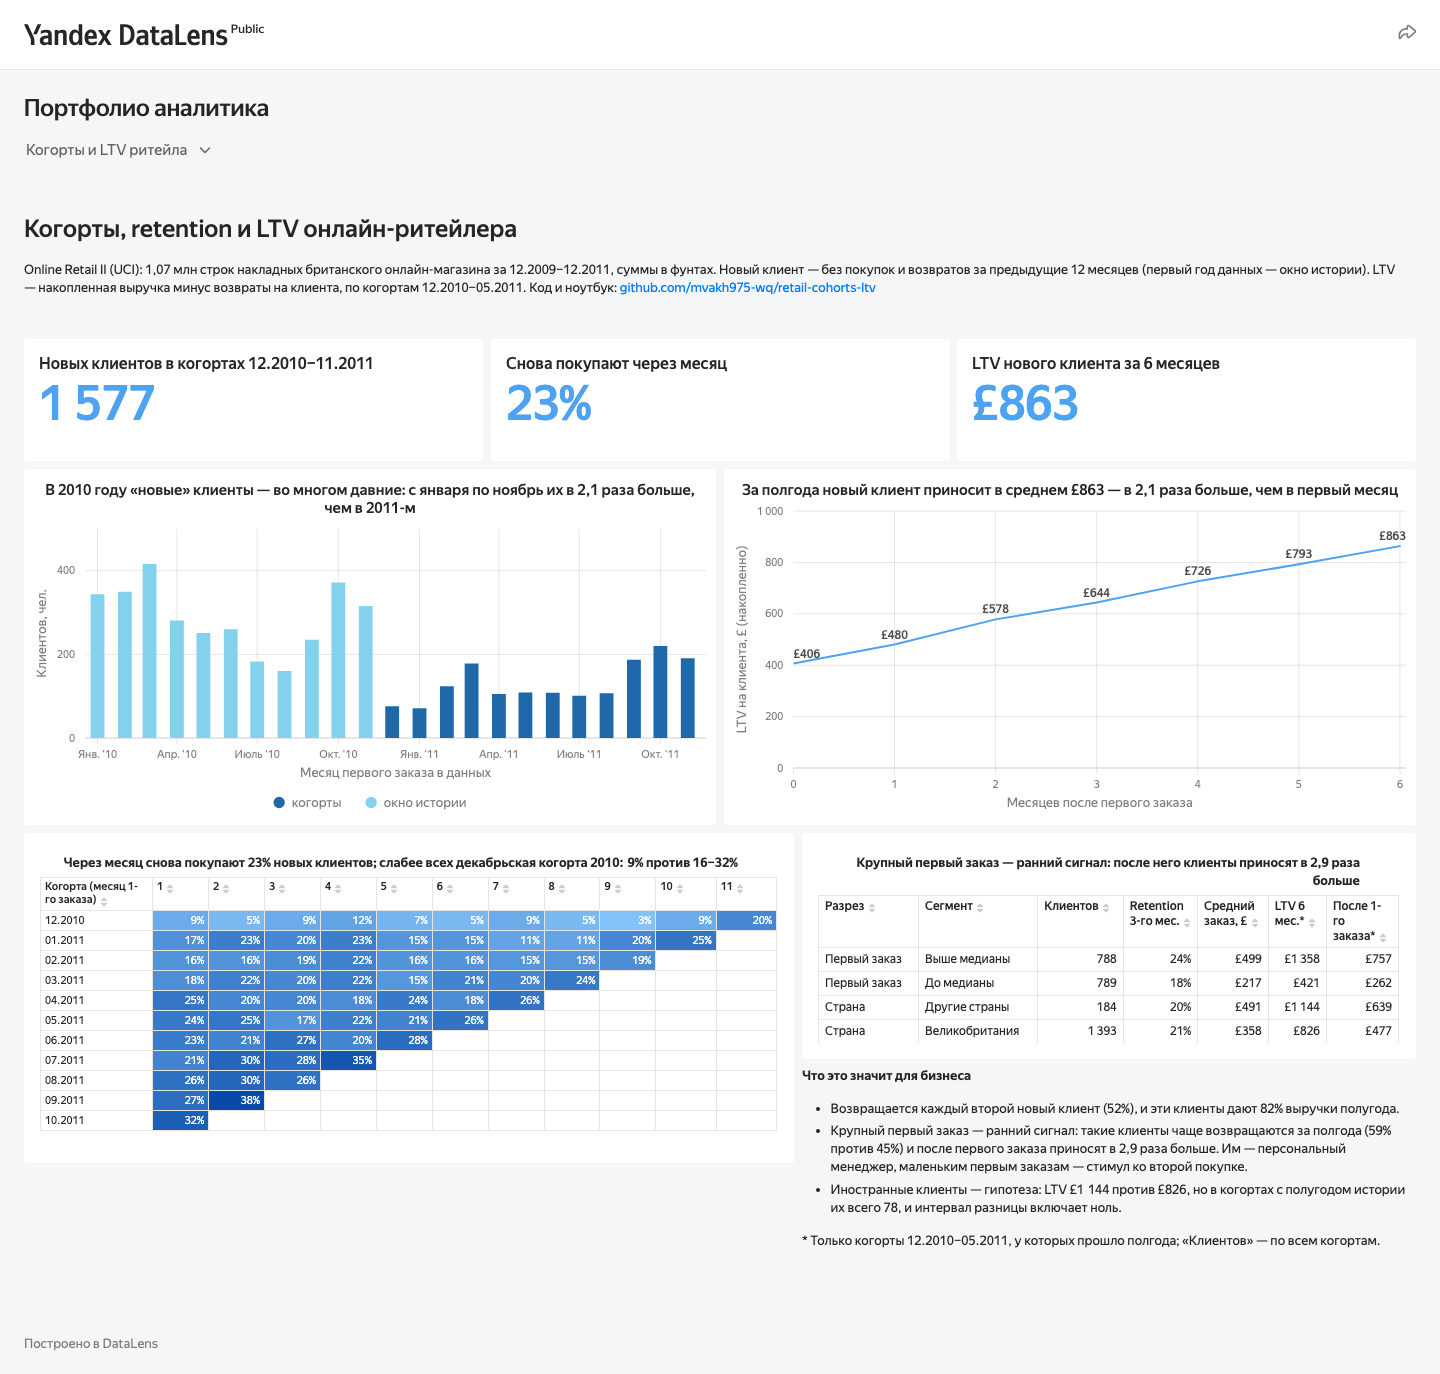
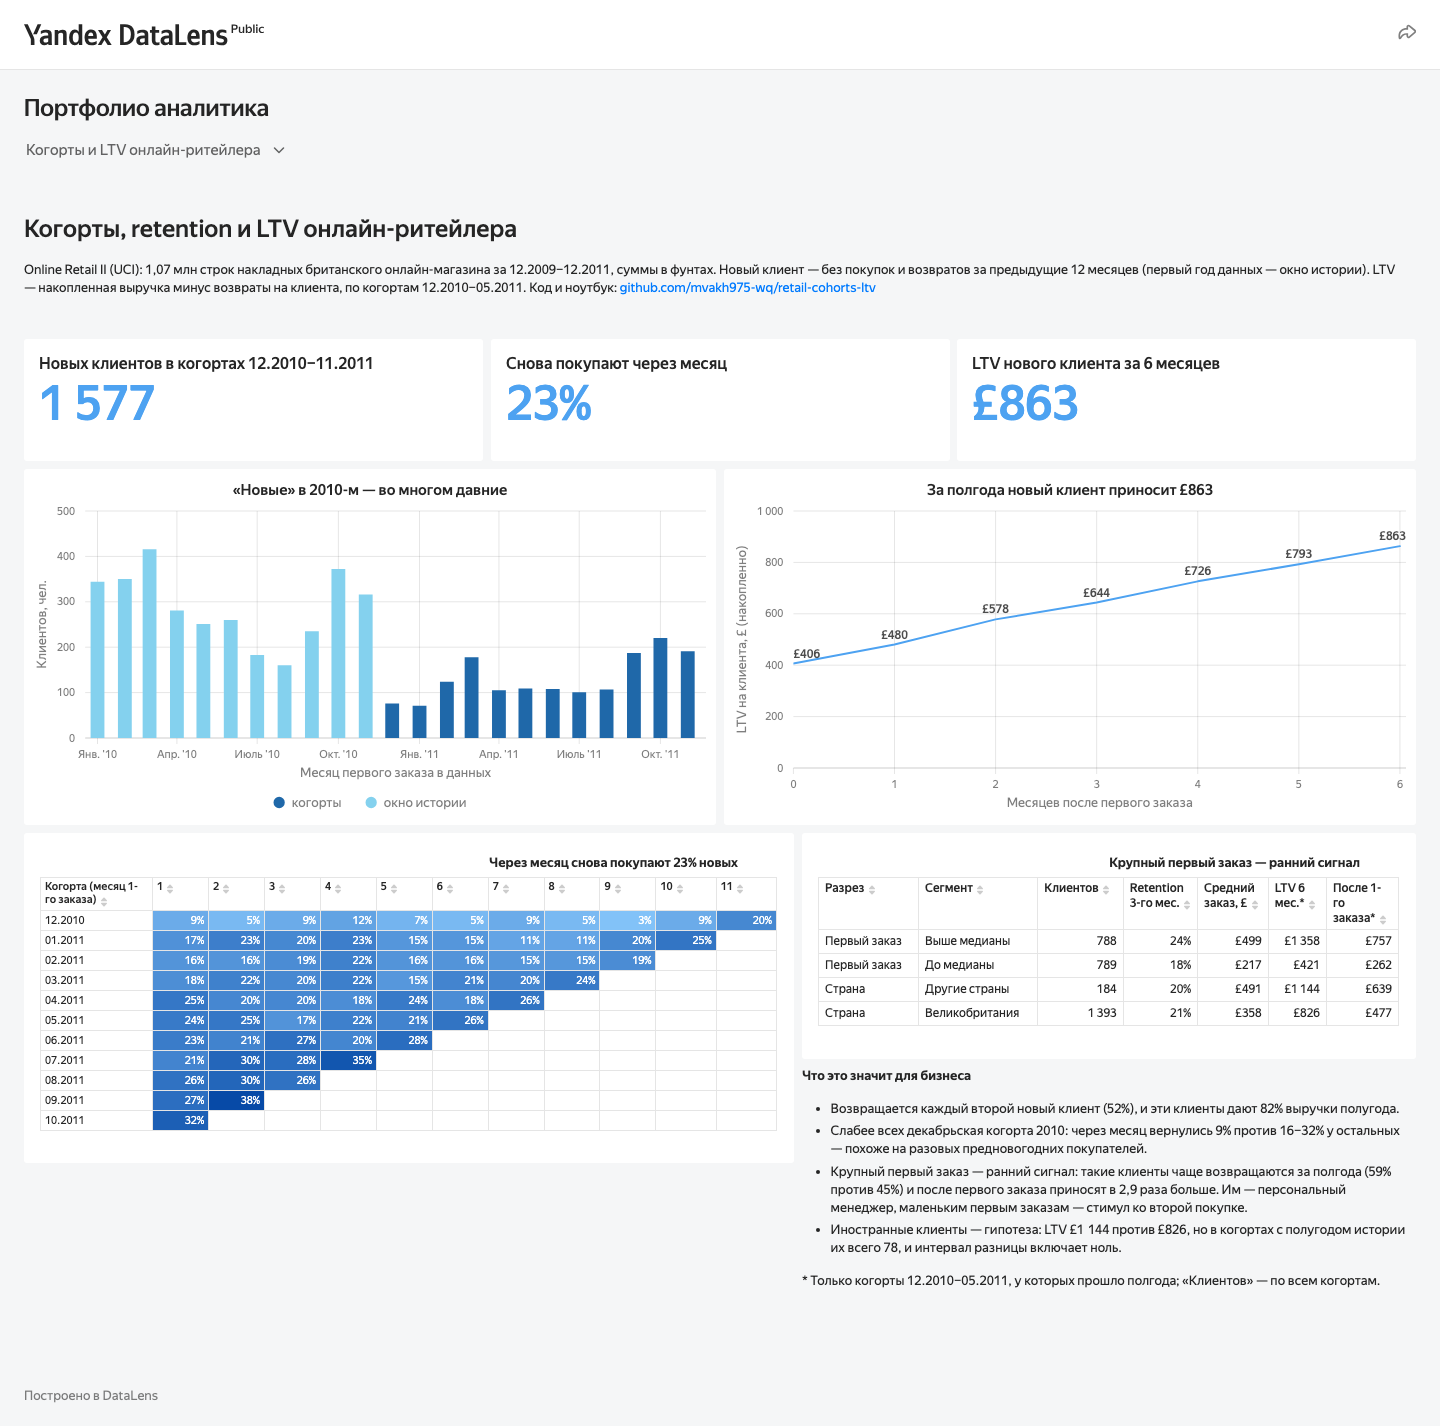
Dashboard screenshot and tab name

diff --git a/README.md b/README.md
@@ -7,7 +7,7 @@
 британского онлайн-магазина и вкладка в публичном дашборде Yandex DataLens.
 
 **[→ Ноутбук с анализом](notebooks/cohorts_ltv.ipynb)** ·
-**[→ Дашборд в DataLens](https://datalens.yandex/07arbroepa4mj)** (вкладка «Когорты и LTV»)
+**[→ Дашборд в DataLens](https://datalens.yandex/07arbroepa4mj?tab=retail)** (вкладка «Когорты и LTV онлайн-ритейлера»)
 
 ![Накопленная выручка на нового клиента по месяцам](docs/ltv.png)
 
@@ -35,7 +35,7 @@
 
 ## Дашборд
 
-Те же выводы в интерактивном виде — [вкладка «Когорты и LTV» в DataLens](https://datalens.yandex/07arbroepa4mj?tab=retail):
+Те же выводы в интерактивном виде — [вкладка «Когорты и LTV онлайн-ритейлера» в DataLens](https://datalens.yandex/07arbroepa4mj?tab=retail):
 
 ![Дашборд DataLens: KPI, «новые» клиенты по месяцам, LTV, retention по когортам, сегменты](docs/dashboard.png)
 
